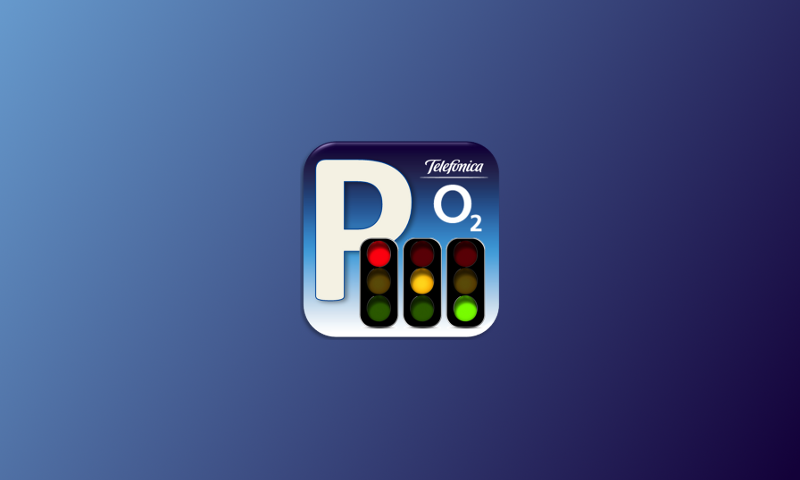
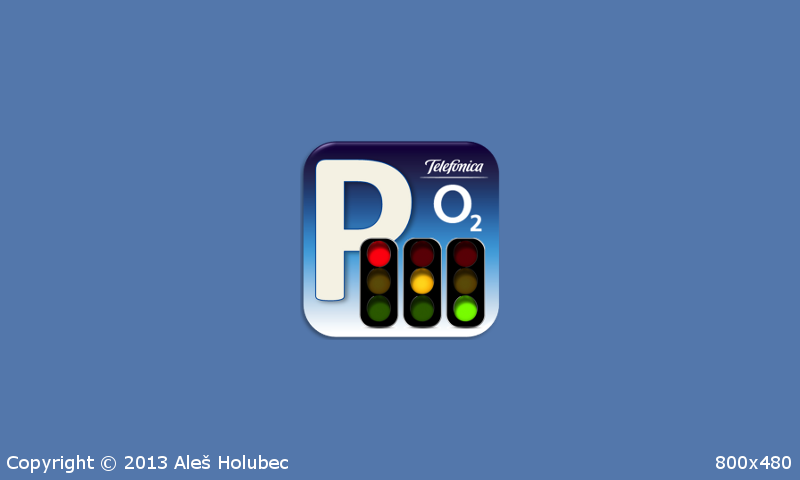
0.9.3 splash screens

diff --git a/index.html b/index.html
@@ -209,7 +209,7 @@
 			<a href="#pageMain" class="btn-ok"><img src="images/O2Parking448.png" alt="TCZ Parking" class="info-logo"></a>
 			<h2>TCZ Parking</h2>
 			<p>Aplikace pro zobrazení stavu obsazenosti parkovacích míst v budovách Telefonica Praha.</p>
-			<i>Copyright © 2012 <a href="mailto:ales.holubec@telefonica.com?subject=TCZ%20Parking%20feedback">Aleš Holubec</a></i>
+			<i>Copyright © 2013 <a href="mailto:ales.holubec@telefonica.com?subject=TCZ%20Parking%20feedback">Aleš Holubec</a></i>
       <div data-role="collapsible-set" data-theme="c" data-content-theme="d">
         <!--<div data-role="collapsible" data-collapsed="true" data-mini="true" data-iconpos="right" >
             <h3>Verze 1.0.0</h3>
@@ -228,10 +228,17 @@
           </ul>
         </div>-->
         <div data-role="collapsible" data-collapsed="false" data-mini="true" data-iconpos="right" >
+            <h3>Verze 0.9.3</h3>
+            8.1.2013
+          <ul>
+            <li>Doplnění splash screens pro různá rozlišení</li>
+          </ul>
+        </div>
+        <div data-role="collapsible" data-collapsed="true" data-mini="true" data-iconpos="right" >
             <h3>Verze 0.9.2</h3>
             7.1.2013
           <ul>
-            <li>Oprava ukládání konfikurace</li>
+            <li>Oprava ukládání konfigurace</li>
             <li>Možnost nastavit úroveň detailu v logu</li>
           </ul>
         </div>

diff --git a/index.js b/index.js
@@ -1,4 +1,4 @@
-var APP_VERSION = '0.9.2';
+var APP_VERSION = '0.9.3';
 
 var GA_PLUGIN_ID = 'UA-37001546-2'; // web type
            
